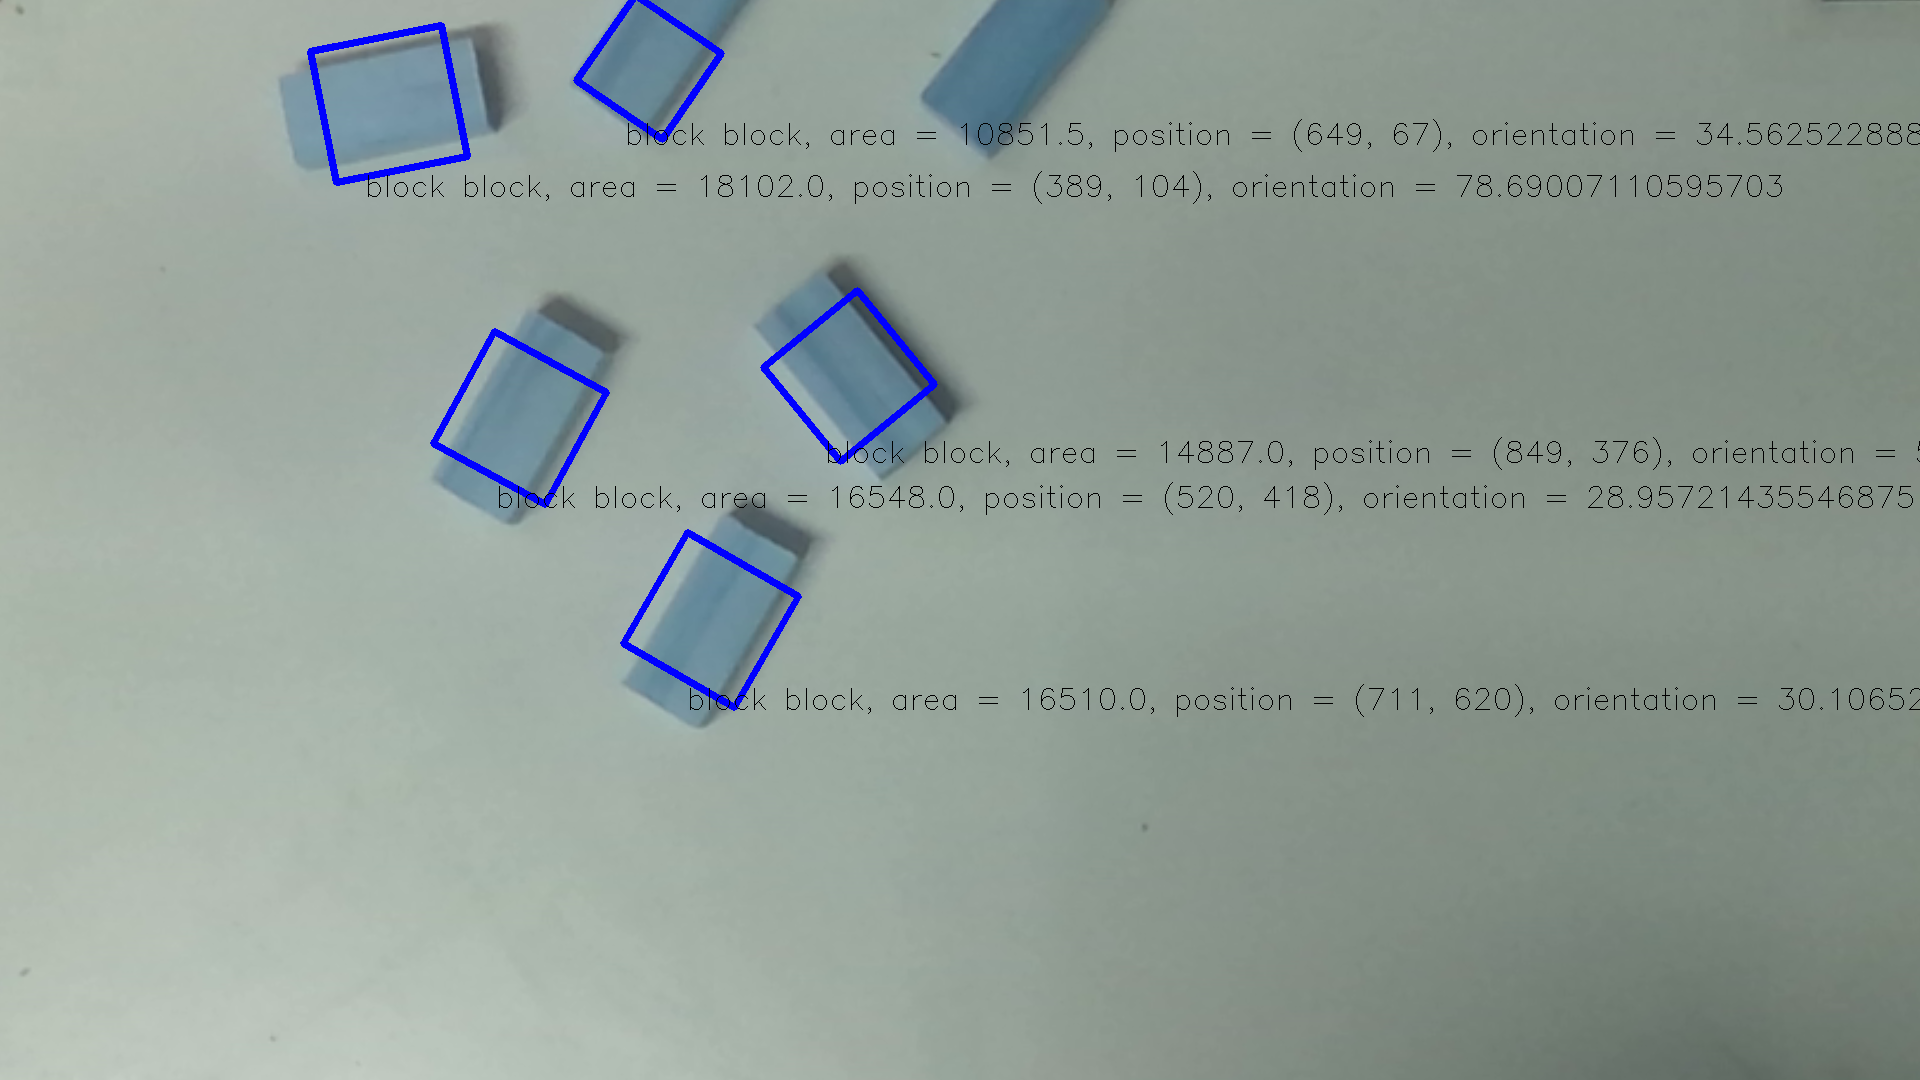
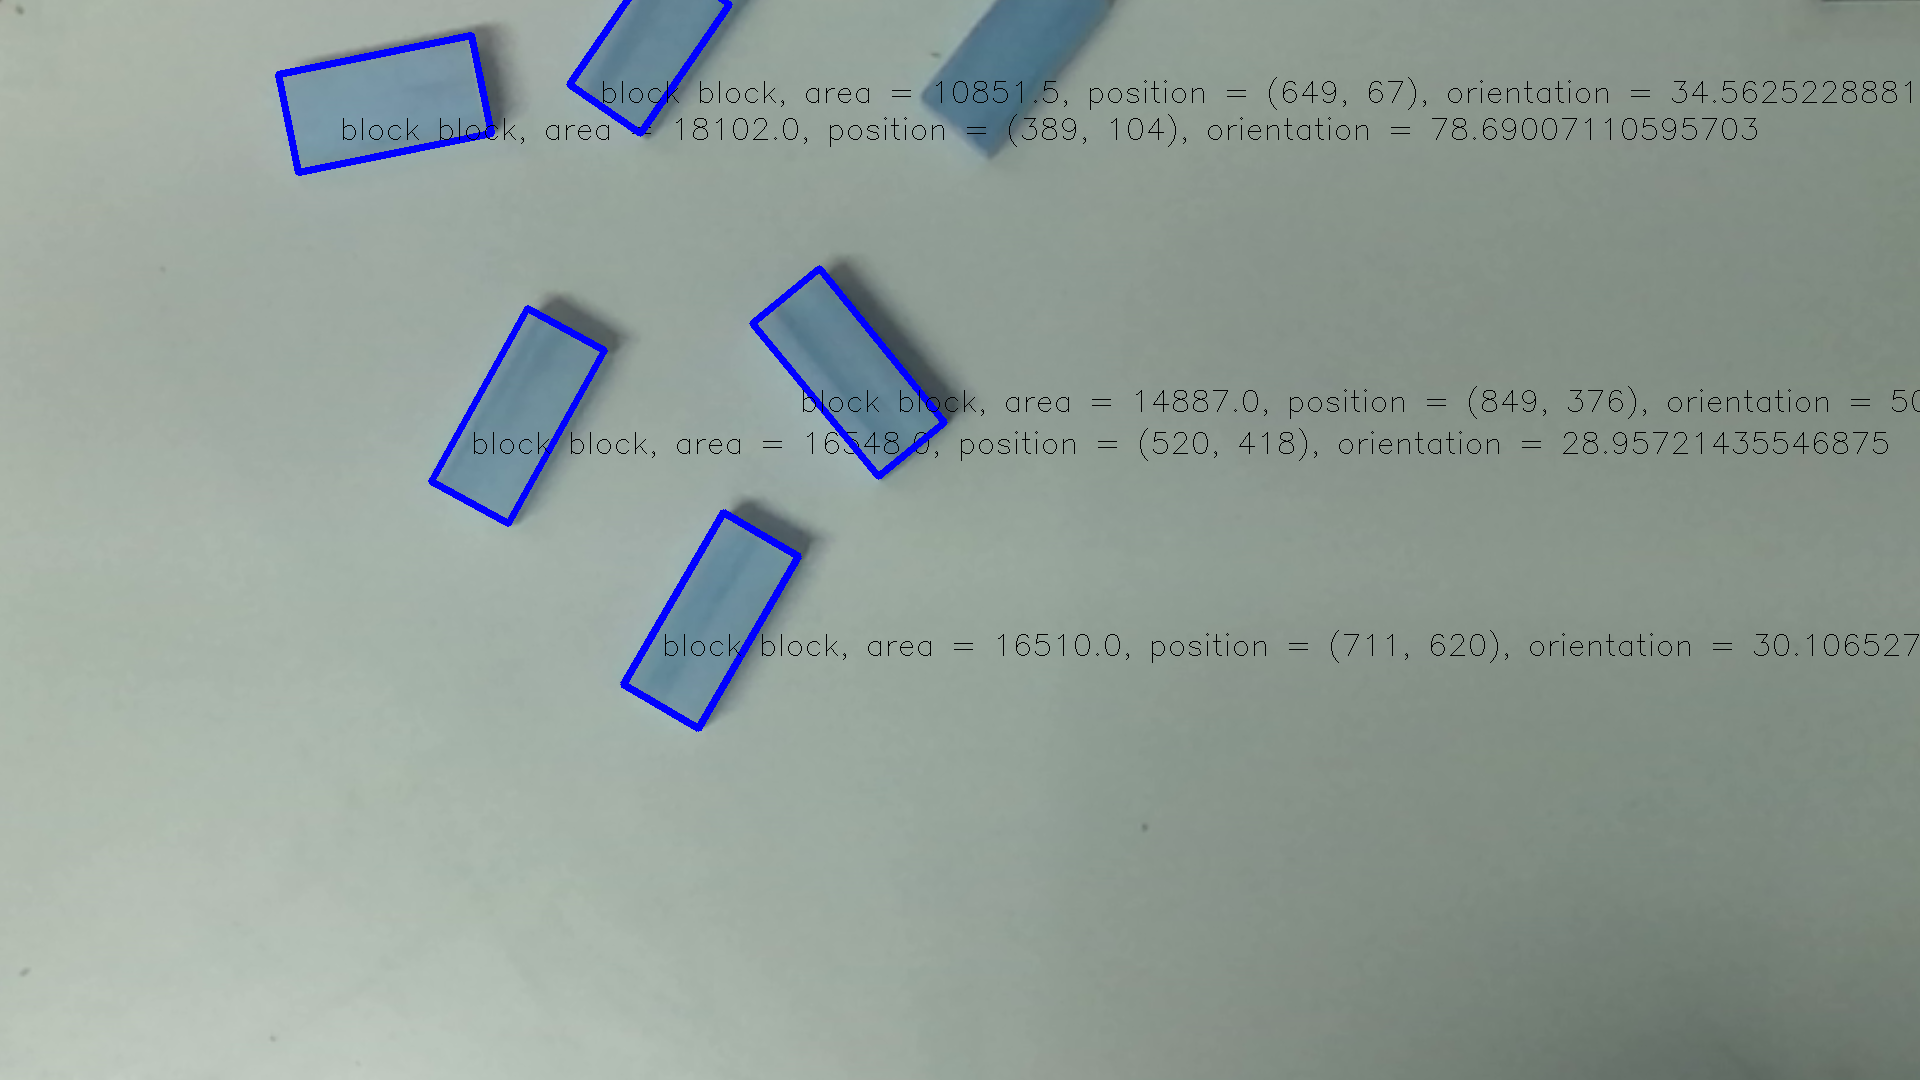
updated perception and match

diff --git a/final/perception.py b/final/perception.py
@@ -97,10 +97,9 @@ def transform_img(color_path, show=False):
     corners = np.array([corners[i] for i in np.argsort(ids)])
     corners = np.squeeze(corners)
     ids = np.sort(ids)
-    print("corners", corners)
+    # print("corners", corners)
     src_pts = np.array([corners[0][1], corners[1][2], corners[2][3], corners[3][0]], dtype='float32')
-
-    print(src_pts)
+    # print(src_pts)
     dst_pts = np.array([[0, 0], [0, height*ppi], [width*ppi, height*ppi], [width*ppi, 0]], dtype='float32')
 
     # do the transform and return the corrected image
@@ -138,10 +137,10 @@ def extract_2d_features(color_path, show=False):
     colors = [
             #   ("green", np.array([0, 101, 55])), 
             #   ("red", np.array([96, 9, 5])),
-            #   ("yellow", np.array([166, 132, 0])),
-            #   ("orange", np.array([172, 52, 0])),
+              ("yellow", np.array([166, 132, 0])),
+              ("orange", np.array([172, 52, 0])),
             #   ("pink", np.array([241, 101, 122])),
-            #   ("turquoise", np.array([23, 127, 116])),
+              ("turquoise", np.array([23, 127, 116])),
             #   ("blue", np.array([0, 105, 237])),
             #   ("dark blue", np.array([11, 13, 200])),
             #   ("purple", np.array([13, 12, 14]))
@@ -160,7 +159,13 @@ def extract_2d_features(color_path, show=False):
 
         # visualize the contours
         contour_img = img.copy()
-        cv2.drawContours(contour_img, contours, -1, (0, 255, 0), 3)
+        # cv2.drawContours(contour_img, contours, -1, (0, 255, 0), 3)
+
+        for c in contours:
+            rect = cv2.minAreaRect(c)
+            box = cv2.boxPoints(rect)
+            box = np.intp(box)
+            cv2.drawContours(contour_img, [box], 0, (0, 255, 0), 2)
 
         if show:
             plt.imshow(cv2.cvtColor(contour_img, cv2.COLOR_BGR2RGB))
@@ -172,14 +177,15 @@ def extract_2d_features(color_path, show=False):
         for contour in contours:
             area = cv2.contourArea(contour)
             perimeter = cv2.arcLength(contour, closed=True)
-            if area < 10000:
+            if area < 10000 or area > 100000:
                 continue
             if perimeter < 100:
                 continue
 
             roundness = 4 * np.pi * area / perimeter**2
+            # print('roundness:', roundness)
             is_square = roundness < 0.78
-            is_block = roundness < 0.7
+            is_block = area < 30000
             # TODO: find roundness of bricks (probably less than square?)
 
             # calculate position
@@ -187,22 +193,45 @@ def extract_2d_features(color_path, show=False):
             u = x + w/2
             v = y + h/2
 
+            orientation = None
+            box = None
             # calculate orientation of square
-            rect = cv2.minAreaRect(contour)
-            orientation = rect[2]
+            if is_square:
+                rect = cv2.minAreaRect(contour)
+                orientation = rect[2]
+            if is_block:
+                box = cv2.boxPoints(rect)
+                box = np.intp(box)
 
             # add to list of objects
             shape = "square" if is_square else "circle"
             shape = 'block' if is_block else shape
-            objects.append(
-                {
-                    "color" : color_name,
-                    "shape" : shape,
-                    "size" : area,
-                    "position": {"x": u, "y": v},
-                    "orientation": orientation
-                }
-            )
+            print(shape, color_name)
+
+            if shape == 'block':
+                if color_name == 'block':
+                    objects.append(
+                        {
+                            "color" : color_name,
+                            "shape" : shape,
+                            "size" : area,
+                            "position": {"x": u, "y": v},
+                            "orientation": orientation,
+                            "box": box
+                        }
+                    )
+            else:
+                if color_name != 'block':
+                    objects.append(
+                        {
+                            "color" : color_name,
+                            "shape" : shape,
+                            "size" : area,
+                            "position": {"x": u, "y": v},
+                            "orientation": orientation,
+                            "box": box
+                        }
+                    )
     print("number of objects found:", len(objects))
     for o in objects:
         print(o)
@@ -229,6 +258,7 @@ def annotate_features(img_path, annotated_path, objects):
         area = object["size"]
         x, y = (int(object["position"]["x"]), int(object["position"]["y"]))
         orientation = object["orientation"]
+        box = object["box"]
 
         if shape == "circle":
             side_length = np.sqrt(area)
@@ -238,7 +268,7 @@ def annotate_features(img_path, annotated_path, objects):
             img = cv2.putText(img, text=f"{color} {shape}, area = {area}, position = ({x}, {y})", 
                               org=(x-25, y + int(side_length / 2) + 25), 
                               fontScale=1, fontFace=font, color=colors[color], thickness=1)
-        else: # shape is a square
+        elif shape == "square":
             side_length = int(area**0.5)
             square = ((x, y), (side_length, side_length), orientation)
             square = cv2.boxPoints(square)
@@ -247,7 +277,11 @@ def annotate_features(img_path, annotated_path, objects):
             img = cv2.putText(img, text=f"{color} {shape}, area = {area}, position = ({x}, {y}), orientation = {orientation}", 
                               org=(x-25, y + int(side_length / 2) + 25), 
                               fontScale=1, fontFace=font, color=colors[color], thickness=1)
-
+        else: 
+            cv2.drawContours(img, [box], 0, (255, 0, 0), 5)
+            img = cv2.putText(img, text=f"{color} {shape}, area = {area}, position = ({x}, {y}), orientation = {orientation}", 
+                              org=(x-50, y + 35), 
+                              fontScale=1, fontFace=font, color=colors[color], thickness=1)
     cv2.imwrite(annotated_path, img)
     plt.imshow(cv2.cvtColor(img, cv2.COLOR_BGR2RGB))
     plt.title("Annotated Image")
@@ -255,8 +289,8 @@ def annotate_features(img_path, annotated_path, objects):
     plt.show()
 
 if __name__ == '__main__':
-    # color_img, depth_data = capture('4-17')
-    # transform_img('color-img-4-17.png', 'depth-img-4-17.png', show=False)
+    color_img = capture('4-21')
+    transform_img('color-img-4-21.png', show=False)
 
-    objects = extract_2d_features('color-img-4-15-corrected.png', show=True)
-    annotate_features('color-img-4-15-corrected.png', 'color-img-4-15-corrected-annotated.png', objects)
+    objects = extract_2d_features('color-img-4-21-corrected.png', show=True)
+    annotate_features('color-img-4-21-corrected.png', 'color-img-4-21-corrected-annotated.png', objects)

diff --git a/final/match.py b/final/match.py
@@ -12,7 +12,21 @@ def get_tower_objects(json_path):
         tower_json = json.load(json_file)
 
         for key in tower_json.keys():
-            pass
+            info = tower_json[key]
+            tower_objects.append({
+                                "color": info["color"],
+                                "shape": info["shape"],
+                                "position": info["position"],
+                                "orientation": info["rotation"],
+                                "size": info["size"]
+                                })
+    tower_objects.sort(key=lambda x:x["position"][2])
+    return tower_objects
+
+if __name__ == "__main__":
+    tower_objects = get_tower_objects('tower.json')
+    print(tower_objects)
+
 
         
 
